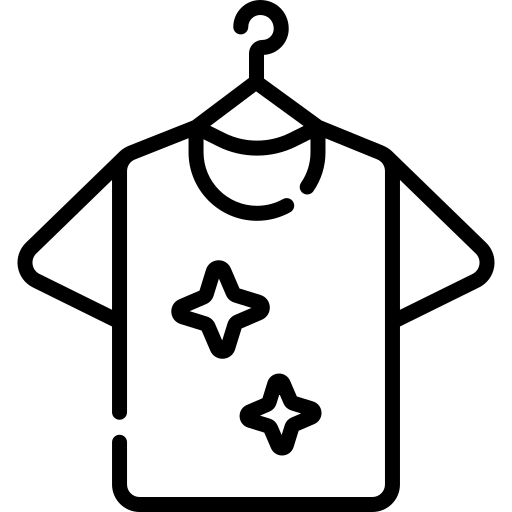
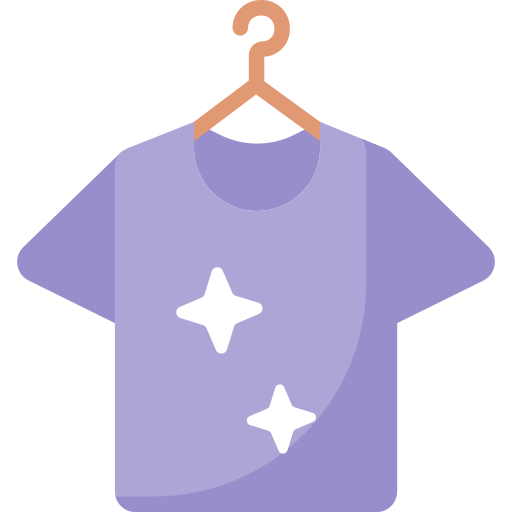
Nova sidebar

diff --git a/cristal/src/app/produtos/produtos.component.scss b/cristal/src/app/produtos/produtos.component.scss
@@ -1,12 +1,12 @@
 .body {
-  background-color: rgb(232, 246, 247);
+  background-color: #FFF;
   margin-top: 93.5px;
 }
 
 .matMenu {
   height: 35px;
   display: flex;
-  margin-bottom: 40px;
+  margin-bottom: 10px;
 }
 
 .buttonMenu {
@@ -14,16 +14,17 @@
   background: none;
   outline: none;
   cursor: pointer;
-  color: black;
+  color: white;
 }
 
 .buttonMenu:hover {
   box-shadow:
     0px 2px #ffffff,
     0px 2px #ffffff;
-  -webkit-transform: translateX(-3px);
-  transform: translateX(-3px);
-  transition: ease 0, 8s;
+  // -webkit-transform: translateX(-3px);
+  // transform: translateX(-3px);
+  color: #3bFEBB;
+  transition: .4s;
 
 }
 
@@ -128,12 +129,10 @@ img {
 }
 
 .title {
-
   font-family: 'Montserrat', sans-serif;
   font-size: 15px;
   font-weight: lighter;
   margin: 0px;
-  color: rgb(58, 58, 58);
 }
 
 
@@ -246,10 +245,10 @@ h5,
 }
 
 #sidebar {
-  margin-top: 17px;
+  margin-top: 16px;
   min-width: 270px;
   max-width: 290px;
-  background: rgb(232, 246, 247);
+  background: #4e57aae1;
   ;
   transition: all 0.3s;
   position: fixed;
@@ -263,9 +262,11 @@ h5,
   }
 
   h1 {
-    margin-bottom: 20px;
-    font-weight: 700;
+    font-weight: bold;
+    font-family: 'Poppins', sans-serif;
+    margin-bottom: 10px;
     font-size: 30px;
+    color: #FFF;
 
     .logo {
       color: white;
@@ -478,7 +479,12 @@ a[data-toggle="collapse"] {
 .paragrafo-filtro {
   margin-right: 80px;
   margin-bottom: 0em;
-  color: rgb(100, 100, 100);
+  font-family: "Popins", sans-serif;
+  font-size: 16px;
+  line-height: 20px;
+  line-break: normal;
+  margin-bottom: 10px;
+  color: rgb(194, 194, 194);
 }
 
 .bloco-rosa {
@@ -536,9 +542,27 @@ a[data-toggle="collapse"] {
   font-family: 'Montserrat', sans-serif;
   font-size: 15px;
   margin: 0px;
-  width: auto ;
+  width: auto;
 }
 
 .inline-group {
   display: flex;
+}
+
+p {
+  font-family: "Popins", sans-serif;
+  font-size: 16px;
+  line-height: 20px;
+  line-break: normal;
+  color: #656FC4;
+}
+
+.mat-chip.mat-standard-chip {
+  background-color: #656FC4;
+  color: #FFF;
+  cursor: pointer;
+}
+
+.mat-chip.mat-standard-chip:hover {
+  color: #FFF;
 }

diff --git a/cristal/src/app/produtos/produtos.component.html b/cristal/src/app/produtos/produtos.component.html
@@ -8,7 +8,7 @@
     <div class="custom-menu">
       <label matTooltip="CATEGORIAS" matTooltipPosition="after" id="sidebarCollapse"
         class="icon-cristal" for="toggleMenu">
-        <img src="../../assets/icon-cristal-produtos.png" alt="categorias">
+        <img src="../../assets/side-icon.svg" alt="categorias">
       </label>
     </div>
     <!-- Categorias -->

diff --git a/cristal/src/app/sobre-nos/sobre-nos.component.scss b/cristal/src/app/sobre-nos/sobre-nos.component.scss
@@ -47,6 +47,7 @@ $focus:#3bFEBB;
 $color_second: #00bfa6;
 $color_bg: #4E57AA;
 
+
 .fundo {
   background-color: $color_grey_dark;
   background-image: linear-gradient(to bottom, #8B92C7, $color_grey, $color_white);
